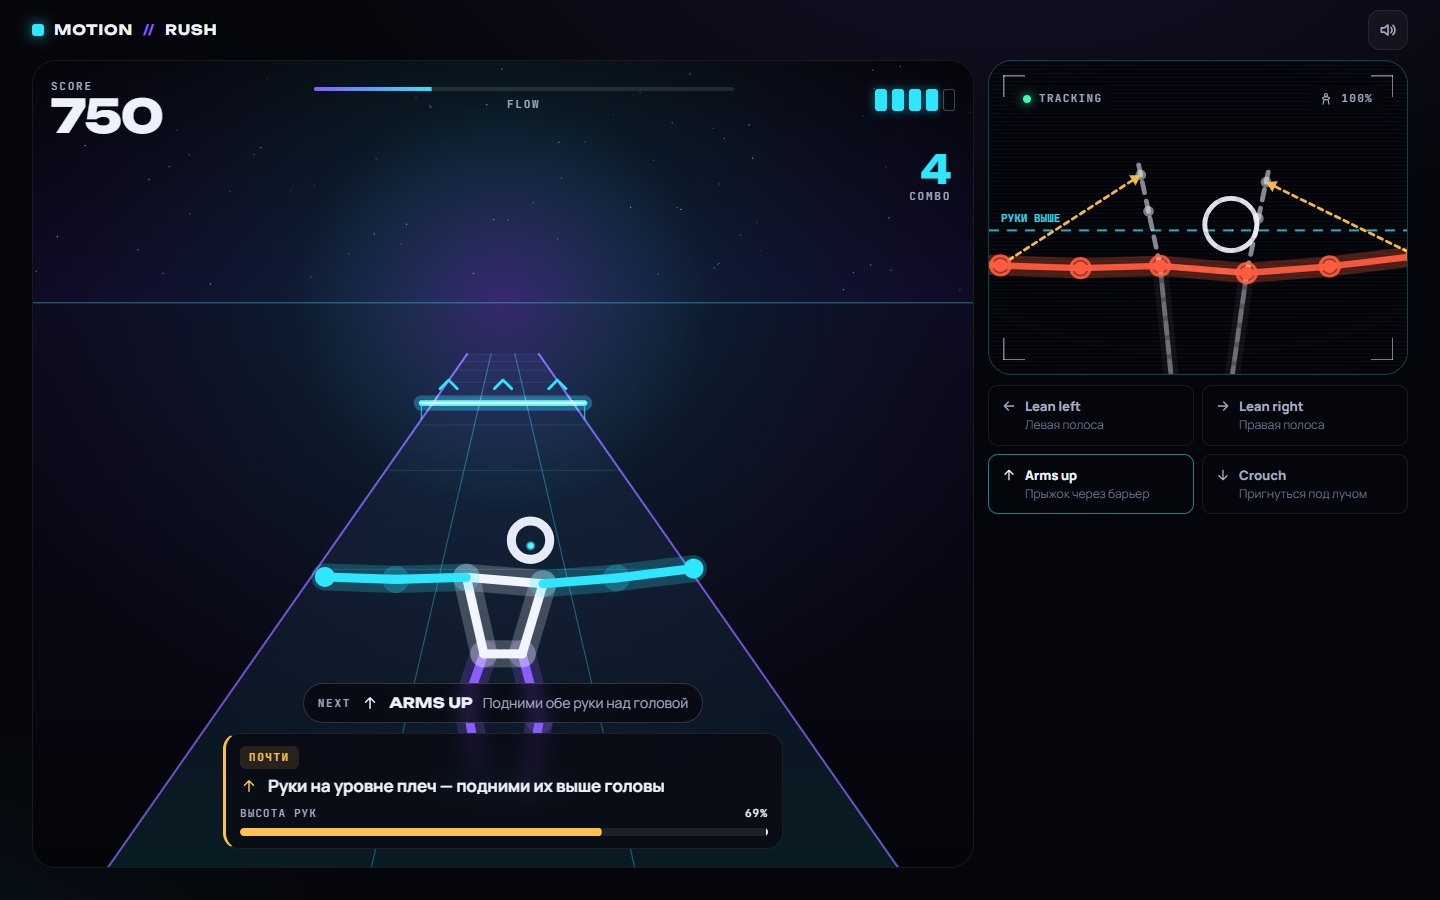
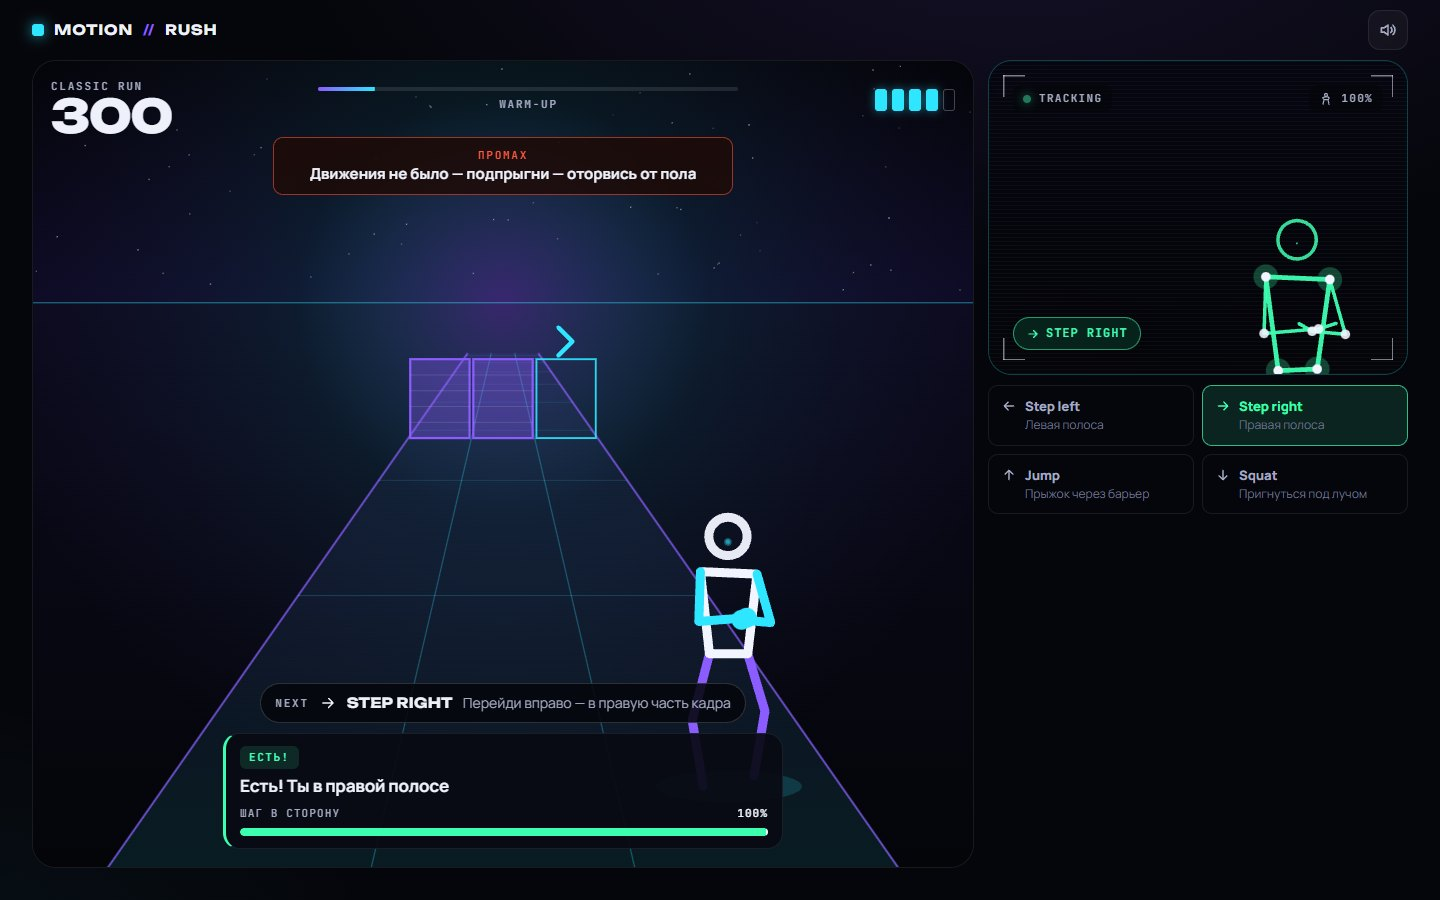
README: new screenshots and docs for dance, two players, lanes and jumps
- Nine fresh screenshots (camera layer hidden): mode carousel, game with
  position lanes, error mode for shoulder-only steps and arms-only jumps,
  Dance Floor, Dance Battle, Versus 2P, results.
- Docs for position-based lanes, the fixed-airtime jump, all 13 modes,
  the dance floor, local two-player modes and duel invite links.
- Landing and the submission text describe the current version.

diff --git a/src/screens/LandingScreen.tsx b/src/screens/LandingScreen.tsx
@@ -40,11 +40,11 @@ export function LandingScreen({ profile, onStart, onLeaderboard }: LandingScreen
         </h1>
         <p className="t-lead landing__lead">Control the game with your body.</p>
         <p className="landing__body">
-          Встань перед камерой в полный рост и двигайся по-настоящему: прыгай, шагай, приседай. Можно и сидя — игра сама
-          подстроится после калибровки.
+          Встань перед камерой в полный рост и двигайся по-настоящему: перебегай влево-вправо, прыгай, приседай,
+          танцуй. Можно и сидя — игра сама подстроится после калибровки.
         </p>
         <p className="landing__modes">
-          {GAME_MODES.length} режимов · мировой рейтинг · онлайн-дуэль 1 на 1
+          {GAME_MODES.length} режимов · танцпол · игра вдвоём · мировой рейтинг · онлайн-дуэль
         </p>
 
         <motion.button

diff --git a/docs/SUBMISSION.md b/docs/SUBMISSION.md
@@ -2,20 +2,22 @@
 
 **MOTION//RUSH** — браузерная неоновая игра-раннер, которой управляют телом через обычную веб-камеру. Направление: **A / Игра**. Демо: https://motion-rush.vercel.app
 
-**Как играть.** Открываешь ссылку и разрешаешь камеру. Приложение проверяет кадр (тело видно, расстояние, свет, один игрок), за 2 секунды калибрует твою нейтральную позу и проводит интерактивное обучение. Затем ты выбираешь режим — тоже телом: шаг в сторону листает карточки, прыжок запускает. Режимов семь: Classic (70 с, 4 фазы сложности), Endless, Sprint 30, Daily Challenge (одна трасса дня для всех), Hardcore (одна жизнь), Practice (без штрафов) и Online Duel — гонка 1 на 1 по сети по коду комнаты, где соперник виден «призраком» на соседней дорожке. На трассе ворота, барьеры, лазеры и бонусы (щит от промаха, буст ×2). В конце — экран результатов с точностью, лучшим комбо, сильным и слабым движением, частыми ошибками, графиком, рекордами режима и мировым рейтингом. Играть снова можно прыжком.
+**Как играть.** Открываешь ссылку и разрешаешь камеру. Приложение проверяет кадр (тело видно, расстояние, свет, один игрок), за 2 секунды калибрует твою нейтральную позу и проводит интерактивное обучение. Затем ты выбираешь режим в карусели — тоже телом (шаг в сторону листает, прыжок запускает) или свайпом. Режимов 13: раннеры Classic, Endless, Blitz, Sprint 30, Daily Challenge (одна трасса дня для всех), Jump & Squat, Lane Rush, Hardcore, Practice; **Dance Floor** — танцпол с музыкой, где нужно попадать позами в бит; **два режима для двоих у одного ноутбука** — Versus 2P (у каждого своя трасса на разделённом экране) и Dance Battle; и Online Duel — гонка 1 на 1 по сети по ссылке-приглашению, где соперник виден «призраком» на соседней дорожке. Каждый забег — новая случайная трасса с воротами, барьерами, лазерами и бонусами (щит от промаха, буст ×2). В конце — экран результатов с точностью, лучшим комбо, сильным и слабым движением, частыми ошибками, графиком, рекордами режима и мировым рейтингом. Играть снова можно прыжком.
 
 **Распознаваемые движения** (MediaPipe Pose + собственная логика). Схема управления выбирается автоматически по калибровке.
 
 Стоя, всё тело в кадре — настоящие движения:
-- шаг влево / вправо (смещается таз, а не только плечи) → левая / правая полоса;
-- прыжок (поднимаются и таз, и плечи; руки не считаются) → прыжок через барьер;
+- перейти в левую / правую часть кадра (полоса = где стоит таз, наклон плеч не считается) → левая / правая полоса;
+- прыжок (поднимаются и таз, и плечи; руки не считаются) → прыжок через барьер; один прыжок = фиксированное время в воздухе, удерживать позу бесполезно;
 - присед (опускается таз) → пригнуться под лазером;
 - возврат в центр → центральные ворота.
 
 Сидя, видно до пояса: наклон корпуса → полоса, обе руки над головой → прыжок, опустить плечи → пригнуться.
 
+На танцполе — 11 поз руками (направление каждой руки от плеча), оценка PERFECT / GOOD / MISS в окне вокруг доли; в режимах для двоих левая половина кадра — игрок 1, правая — игрок 2.
+
 Пороги считаются в размерах тела игрока (ширина плеч и длина руки из калибровки), поэтому одинаково работают у людей разного роста и на разном расстоянии. Сигнал сглаживается фильтром One-Euro. Жест подтверждается только после нескольких стабильных кадров (настоящий прыжок — на первом чётком кадре, ведь в воздухе человек ~0.3 с); дальше работают гистерезис и cooldown в явной машине состояний.
 
-**Как реализован режим «ошибка».** Игра всегда знает, какое движение ждёт (ближайшее препятствие или шаг обучения). Движок диагностики каждый кадр проверяет таблицу из 28 правил вида «условие по реальным точкам тела → диагноз → инструкция → приоритет» (у схем «стоя» и «сидя» свои типичные ошибки) и отличает четыре случая: правильно, почти (недостаточная амплитуда), неправильно и «делаешь другой жест». Подсказки конкретные: «Руки не считаются — подпрыгни всем телом!», «Двигаются только плечи — шагни влево всем телом», «Не наклоняйся — сгибай колени и опускай таз», «Прыжок низковат — оттолкнись сильнее», «Правая рука ниже цели — подними её выше головы». Визуально ошибка подкреплена несколькими слоями: пунктирный «призрак» целевой позы поверх скелета игрока, стрелки от текущих суставов к целевым, линии-цели («◀ ШАГНИ СЮДА», «ТАЗ НИЖЕ»), подсветка нужной части тела и шкала прогресса в процентах. Чтобы текст не мигал, у подсказок есть задержка появления и минимальное время показа. При промахе в игре всплывает его причина, а в результатах показано, какие ошибки система заметила и сколько из них игрок исправил после подсказки.
+**Как реализован режим «ошибка».** Игра всегда знает, какое движение ждёт (ближайшее препятствие или шаг обучения). Движок диагностики каждый кадр проверяет таблицу из 28 правил вида «условие по реальным точкам тела → диагноз → инструкция → приоритет» (у схем «стоя» и «сидя» свои типичные ошибки) и отличает четыре случая: правильно, почти (недостаточная амплитуда), неправильно и «делаешь другой жест». Подсказки конкретные: «Руки не считаются — подпрыгни всем телом!», «Двигаются только плечи — шагни влево всем телом», «Не наклоняйся — сгибай колени и опускай таз», «Прыжок низковат — оттолкнись сильнее», «Правая рука ниже цели — подними её выше головы». Визуально ошибка подкреплена несколькими слоями: пунктирный «призрак» целевой позы поверх скелета игрока, стрелки от текущих суставов к целевым, линии-цели («◀ ШАГНИ СЮДА», «ТАЗ НИЖЕ»), подсветка нужной части тела и шкала прогресса в процентах. Чтобы текст не мигал, у подсказок есть задержка появления и минимальное время показа. При промахе в игре всплывает его причина, а в результатах показано, какие ошибки система заметила и сколько из них игрок исправил после подсказки. На танцполе подсказка называет руку и направление: «Левую руку выше, правую руку ниже».
 
 Всё распознавание работает в браузере без установки; видео не покидает устройство. Онлайн-часть (мировой рейтинг и дуэли на Supabase) передаёт только ник, счёт и положение бегуна.
